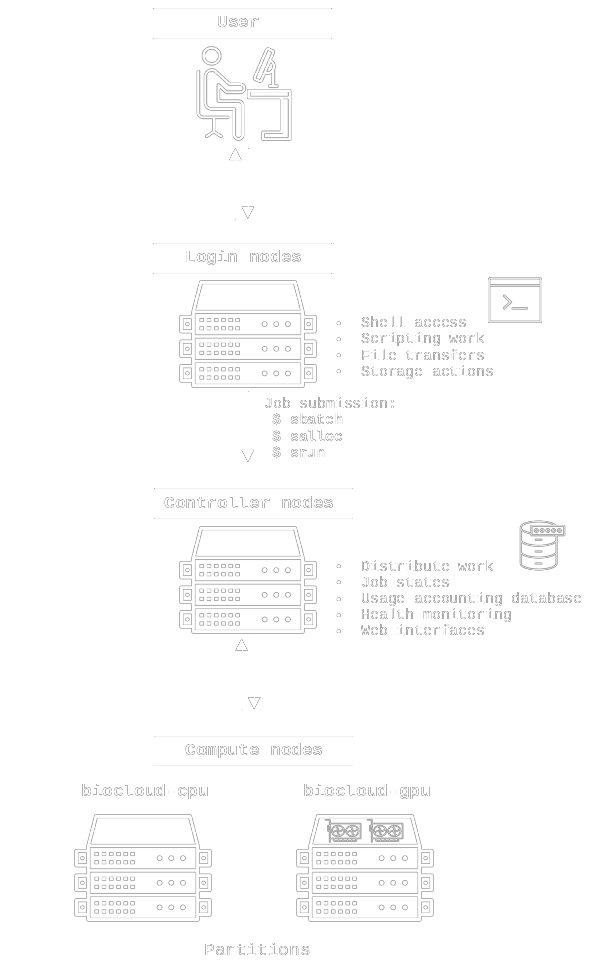
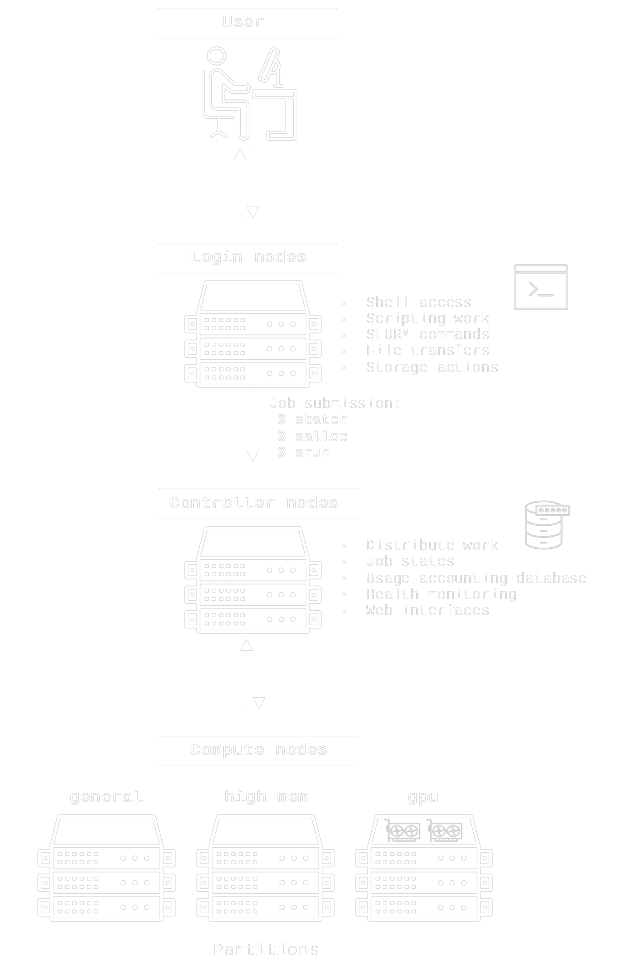
rename partitions+minors

diff --git a/docs/slurm/request.md b/docs/slurm/request.md
@@ -28,8 +28,8 @@ Ressources are then freed immediately for other jobs once the command/script exi
 ## Non-interactive jobs
 SLURM batch scripts is in many cases the preferred way to start jobs and is the recommended way to use SLURM. It's different in the way that the ressources are requested. It's done by `#SBATCH` comment-style directives in a shell script, and the script is then submitted to SLURM using an `sbatch script.sh` command. This is ideal for submitting large jobs that will run for many hours or days, but of course also for testing/development work. Ideally, a SLURM batch script should always contain (in order):
 
- - Any number of `#SBATCH` lines with options defining ressource constraints and other [options](#most-essential-options) for the subsequent task(s) being run
- - A list of commands to load required software modules or conda environments required for *all tasks*. This can also be done within any external scripts.
+ - Any number of `#SBATCH` lines with options defining ressource constraints and other [options](#most-essential-options) for the subsequent SLURM task(s) being run
+ - A list of commands to load required software modules or conda environments that are required for *all tasks*. This can also be done within any external scripts being run.
  - The main body of the script/workflow, or otherwise any number of `srun` calls to start external commands/scripts as asynchronous SLURM tasks within the same ressource allocation (=job ID)
 
 Submit the batch script to the SLURM job queue using `sbatch script.sh`, and it will then start once the requested amount of ressources are available (also taking into account your past usage and priorities of other jobs etc, all 3 job submission commands do that). If you set the `--mail-user` and `--mail-type` arguments you should get a notification email once the job starts and finishes with additional details like how many ressources you have actually used compared to what you have requested. This is essential information for future jobs to avoid overbooking and maximize ressource utilization of the cluster.
@@ -109,7 +109,7 @@ There are plenty of options with the SLURM job submission commands, but below ar
 | `--nodes`              | Indicates the total number of compute nodes to be allocated for the job.                                    |
 | `--nodelist`           | Specifies a comma-separated list of specific compute nodes to be allocated for the job.                     |
 | `--gres`               | List of "generic consumable ressources" to use, for example a GPU. |
-| `--partition`          | The SLURM partition to which the job is submitted. Default is to use the `biocloud-cpu` partition. |
+| `--partition`          | The SLURM partition to which the job is submitted. Default is to use the `general` partition. |
 | `--chdir` | Set the working directory of the batch script before it's executed. Environment variables are not supported. |
 | `--time`               | Defines the maximum time limit for job execution. It can be expressed in minutes, hours, or days. [Details here](https://slurm.schedmd.com/sbatch.html#OPT_time)          |
 | `--mail-type`          | Configures email notifications for certain job events. One or more comma-separated values of: `NONE`, `ALL`, `BEGIN`, `END`, `FAIL`, `REQUEUE`, `ARRAY_TASKS`. [Details here](https://slurm.schedmd.com/sbatch.html#OPT_mail-type)                       |
@@ -122,7 +122,7 @@ Jobs that will spawn many parallel processes, fx when using GNU `parallel` or `x
 ??? "Jobs that span multiple compute nodes"
       If needed the BioCloud is properly set up with the `OpenMPI` and `PMIx` message interfaces for distributed work across multiple compute nodes, but it requires you to [tailor your scripts and commands](https://curc.readthedocs.io/en/latest/programming/parallel-programming-fundamentals.html) specifically for distributed work and is a topic for another time. You can run "brute-force parallel" jobs, however, using for example [GNU parallel](https://curc.readthedocs.io/en/latest/software/GNUParallel.html) and distribute them across nodes, but this is only for experienced users and they must figure that out for themselves for now.
 
-If you need to use one or more GPUs you need to specify `--partition=biocloud-gpu` and set `--gres=gpu:x`, where `x` refers to the number of GPUs you need. Please don't do CPU work on the `biocloud-gpu` partition unless you also need a GPU.
+If you need to use one or more GPUs you need to specify `--partition=gpu` and set `--gres=gpu:x`, where `x` refers to the number of GPUs you need. Please don't do CPU work on the `gpu` partition unless you also need a GPU.
 
 ## How many ressources should I request for my job(s)?
 Exactly how many ressources your job(s) need(s) is something you have to experiment with and learn over time based on past experience. It's important to do a bit of experimentation before submitting large jobs to obtain a qualified guess since the utilization of all the allocated ressources across the cluster is ultimately based on people's own assessments alone. Below are some tips regarding CPU and memory.

diff --git a/docs/index.md b/docs/index.md
@@ -4,21 +4,26 @@ Welcome to the documentation website for the BioCloud HPC at the section of biot
 The current setup consists of data center servers with dual socket AMD Epyc CPU's of various sizes (from 2022) with a total of **1752 vCPUs** and **11.2 TB RAM**, all connected to a **2.3 PB+ storage** cluster ([Ceph](https://ceph.com/)). Most servers/VMs in the cluster are set up with the [SLURM workload manager](https://slurm.schedmd.com/overview.html) to effectively manage the compute ressources for more than a hundred users.
 
 ## Cloud compute
-Optimized for heavy parallel CPU workloads that may require lots of memory and storage, but one server also has 2x NVIDIA A10 GPU's for smaller jobs that benefit from GPU acceleration. A few servers have local scratch storage for faster I/O. The servers are located in an enterprise data center at AAU with 25 gbps network, and they are only accessible remotely from the local AAU network or VPN. The `axomamma.srv.aau.dk` server is the only bare-metal machine, it's not managed by Slurm as it's reserved for GUI apps like CLC and Arb and for students. The rest are virtual machines (VM's) in a 1:1 physical to virtual CPU configuration, and are set up identically. All VM's run Ubuntu 22.04 LTS, while `axomamma.srv.aau.dk` runs Ubuntu 20.04 LTS. 
+Optimized for heavy parallel CPU workloads that may require lots of memory and storage, but one server also has 2x NVIDIA A10 GPU's for smaller jobs that benefit from GPU acceleration. A few servers have local scratch storage for faster I/O and to avoid overburdening the [ceph storage cluster](storage.md) when lots (millions) of small files need to written. The servers are located in an enterprise data center at AAU with 25 gbps network, and they are only accessible remotely from the local AAU network or VPN. The `axomamma.srv.aau.dk` server is the only bare-metal machine, and it's not managed by Slurm as it's reserved for GUI apps like CLC and Arb and for student use (will be managed by slurm in the near future). The rest are identical virtual machines (VM's) in a 1:1 physical to virtual CPU configuration. All VM's run Ubuntu 22.04 LTS, while `axomamma.srv.aau.dk` runs Ubuntu 20.04 LTS.
 
-| Node type | Threads/Memory | Scratch | GPU | Slurm partition |
-| --- | --- | --- | --- | --- |
-| General compute nodes (x5) |  192t / 1 TB | - | - | biocloud-cpu |
-| Fat node (x1) | 192t / 2 TB | - | - | biocloud-cpu |
-| Extra fat node (x1) | 256t / 2 TB | 15 TB NVMe | - | biocloud-cpu |
-| GPU node (x1) | 64t / 256 GB | 3 TB NVMe | 2x  nvidia A10 | biocloud-gpu |
-| axomamma.srv.aau.dk | 256t / 1 TB | 3.5 TB HDD | - | - |
+### SLURM partitions
+| Hostname | Threads/Memory | Scratch | GPU | Slurm partition |
+| :--- | :---: | :---: | :---: | :---: |
+| `bio-oscloud[02-06]` |  192t / 1 TB | - | - | `general` |
+| `bio-oscloud07` | 192t / 2 TB | - | - | `high-mem` |
+| `bio-oscloud08` | 256t / 2 TB | 15 TB NVMe | - | `high-mem` |
+| `bio-oscloud09` | 64t / 256 GB | 3 TB NVMe | 2x  nvidia A10 | `gpu` |
+
+### Standalone servers
+| Hostname | Threads/Memory | Scratch | GPU |
+| :--- | :---: | :---: | :---: |
+| `axomamma.srv.aau.dk` | 256t / 1 TB | 3.5 TB HDD | - |
 
 ## Workstations
 These workstations are physically accessible around the labs, but are also available over the network. They have powerful GPU's for enhanced neural network performance and are mainly used for Nanopore basecalling. They are not connected to the storage cluster nor the university Active Directory for user authentication.
 
 | Server name | IP   | Threads/Memory | GPU| CUDA cores total |
-| ---         | ---  | --- | --- |--- | 
+| :---         | :---:  | :---: | :---: :|---: | 
 | WS1         | 172.25.230.247 | 40t / 128 GB | 2x Nvidia RTX2080 Super | 6.144 |
 | WS2         | 172.25.230.249 | 32t / 96 GB | 1x Nvidia RTX4090 | 16.384 |
 | WS5         | 172.25.230.248  | 24t / 65 GB | 2x Nvidia RTX4090 | 32.768 |
@@ -26,4 +31,4 @@ These workstations are physically accessible around the labs, but are also avail
 | GridION     | 172.25.230.240 | 16t / 64 GB | 1x Nvidia Quadro GV100 | 5.120 |
 
 ## Provisioning
-If you want to know exactly how everything is set up, refer to the [BioCloud ansible playbook](https://github.com/cmc-aau/biocloud). You need an invitation to the organization first since the repository is private for security reasons.
+If you want to know exact details about how everything is set up, refer to the [BioCloud ansible playbook](https://github.com/cmc-aau/biocloud). You need an invitation to the `cmc-aau` GitHub organization first since the repository is private for security reasons.

diff --git a/docs/slurm/intro.md b/docs/slurm/intro.md
@@ -1,7 +1,7 @@
 # Introduction to SLURM
-SLURM (Simple Linux Utility for Resource Management) is a highly flexible and powerful job scheduler for managing and scheduling computational workloads on high-performance computing (HPC) clusters. SLURM is designed to efficiently allocate resources and manage job execution on clusters of any size, from a single server to tens of thousands. SLURM manages resources on an HPC cluster by dividing them into partitions. Users submit jobs to these partitions from a login-node, and then the SLURM controller schedules and allocates resources to those jobs based on available resources and user-defined constraints. SLURM also stores detailed usage information of all users' jobs in a usage accounting database, which allows enforcement of fair-share policies and priorities for job scheduling for each partition.
+SLURM (Simple Linux Utility for Resource Management) is a highly flexible and powerful job scheduler for managing and scheduling computational workloads on high-performance computing (HPC) clusters. SLURM is designed to efficiently allocate resources and manage job execution on clusters of any size, from a single server to tens of thousands. SLURM manages resources on an HPC cluster by dividing compute nodes into partitions. Users submit jobs to these partitions from a login-node, and then the SLURM controller schedules and allocates resources to those jobs based on available resources and user-defined constraints. SLURM also stores detailed usage information of all users' jobs in a usage accounting database, which allows enforcement of fair-share policies and priorities for job scheduling for each partition.
 
-The BioCloud compute nodes are currently divided into two partitions with the same usage policies (currently no limit FIFO, first-in-first-out): the `biocloud-cpu` partition for CPU intensive jobs and the `biocloud-gpu` partition for jobs that benefit from a GPU. 
+The BioCloud compute nodes are divided into separate partitions depending on their hardware, see the [hardware overview](index.md) for an up to date list. They currently share the same usage policy groups (currently no limit first-in-first-out).
 
 ## BioCloud SLURM cluster overview
 ![SLURM overview](img/slurm-overview-inverted.png)
@@ -12,7 +12,7 @@ Start with obtaining shell access to either of the 3 login nodes `bio-oscloud[01
 ```
 $ sinfo
 PARTITION     AVAIL  TIMELIMIT  NODES  STATE NODELIST
-biocloud-cpu*    up 14-00:00:0      1   idle bio-oscloud04
+general*    up 14-00:00:0      1   idle bio-oscloud04
 ```
 
 To get an overview of running jobs use `squeue`, example output:
@@ -20,21 +20,21 @@ To get an overview of running jobs use `squeue`, example output:
 # everything
 $ squeue
              JOBID PARTITION     NAME     USER ST       TIME  NODES NODELIST(REASON)
-               103 biocloud- 001-SG-0 jm12em@b  R    2:38:03      1 bio-oscloud04
-               109 biocloud- sourdoug ft25sh@b  R    1:06:50      1 bio-oscloud04
+               103 general 001-SG-0 user01@b  R    2:38:03      1 bio-oscloud04
+               109 general sourdoug user02@b  R    1:06:50      1 bio-oscloud04
 
 # specific user (usually yourself)
 $ squeue -u $(whoami)
              JOBID PARTITION     NAME     USER ST       TIME  NODES NODELIST(REASON)
-               113 biocloud- minimap2 ksa@bio.  R       0:04      1 bio-oscloud04
+               113 general minimap2 user01@b  R       0:04      1 bio-oscloud04
 ```
 
-Or get a more detailed overview of current ressource allocations and which jobs are running on all compute nodes with the wrapper script from [slurm_tools](https://github.com/OleHolmNielsen/Slurm_tools) `pestat`:
+Or get a more detailed overview per compute node of current ressource allocations and which jobs are running etc with the wrapper script from [slurm_tools](https://github.com/OleHolmNielsen/Slurm_tools) `pestat`:
 ```
 $ pestat
 Hostname            Partition     Node Num_CPU  CPUload  Memsize  Freemem  Joblist
                                  State Use/Tot  (15min)     (MB)     (MB)  JobID User ...
-bio-oscloud04   biocloud-cpu*     mix  160 192    8.11*   957078   815942  110 ft25sh@bio.aau.dk 112 ksa@bio.aau.dk
+bio-oscloud04   general*     mix  160 192    8.11*   957078   815942  110 user01@bio.aau.dk 112 user02@bio.aau.dk
 ```
 
 See `pestat -h` for more options.

diff --git a/docs/slurm/jobcontrol.md b/docs/slurm/jobcontrol.md
@@ -6,7 +6,7 @@ Use [`squeue`](https://slurm.schedmd.com/squeue.html), for example:
 ```
 $ squeue
 JOBID PARTITION     NAME     USER ST       TIME  NODES NODELIST(REASON)
-   24 biocloud- interact ksa@bio.  R       2:15      1 bio-oscloud04
+   24 general interact ksa@bio.  R       2:15      1 bio-oscloud04
 ```
 
 ??? "Job state codes (ST)"
@@ -99,12 +99,12 @@ To view the status of past jobs and their usage accounting information use [`sac
 $ sacct
 JobID           JobName  Partition    Account  AllocCPUS      State ExitCode 
 ------------ ---------- ---------- ---------- ---------- ---------- -------- 
-7            biobank_d+ biocloud-+ compute-a+        180  COMPLETED      0:0 
+7            biobank_d+ general+ compute-a+        180  COMPLETED      0:0 
 7.batch           batch            compute-a+        180  COMPLETED      0:0 
 7.extern         extern            compute-a+        180  COMPLETED      0:0 
-8            interacti+ biocloud-+ compute-a+          1     FAILED      2:0 
+8            interacti+ general+ compute-a+          1     FAILED      2:0 
 8.extern         extern            compute-a+          1  COMPLETED      0:0 
-9            interacti+ biocloud-+ compute-a+          1  COMPLETED      0:0 
+9            interacti+ general+ compute-a+          1  COMPLETED      0:0 
 9.extern         extern            compute-a+          1  COMPLETED      0:0
 ```
 

diff --git a/docs/slurm/other.md b/docs/slurm/other.md
@@ -22,7 +22,7 @@ JobId=24 JobName=interactive
    AccrueTime=Unknown
    StartTime=2023-11-01T11:20:01 EndTime=2023-11-15T11:20:01 Deadline=N/A
    SuspendTime=None SecsPreSuspend=0 LastSchedEval=2023-11-01T11:20:01 Scheduler=Main
-   Partition=biocloud-cpu AllocNode:Sid=bio-ospikachu02:340145
+   Partition=general AllocNode:Sid=bio-ospikachu02:340145
    ReqNodeList=(null) ExcNodeList=(null)
    NodeList=bio-ospikachu05
    BatchHost=bio-ospikachu05
